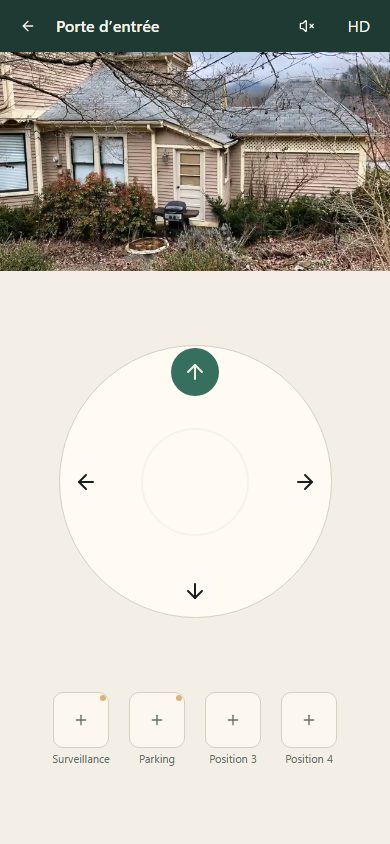
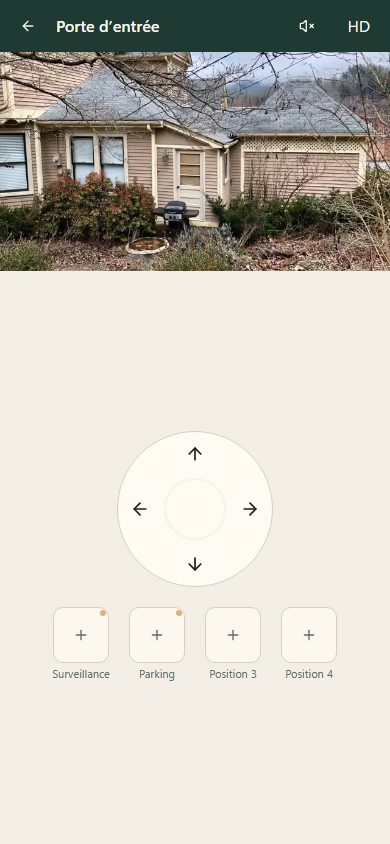
fix(live): give the portrait pad a fixed, comfortable size
Owner feedback on #337: the pad grown to the free height looked out of
proportion. Held upright it now keeps a fixed size, about 40 % of the
width and capped, with the positions right under it, both centred in
the room below the picture. Landscape is unchanged.

diff --git a/src/dashboard/tests/e2e/ui_defauts.e2e.ts b/src/dashboard/tests/e2e/ui_defauts.e2e.ts
@@ -62,7 +62,7 @@ test.describe('LiveView', () => {
     expect(picture!.width).toBe(390)
   })
 
-  test('LiveView_ShouldGiveThePadAndPositionsTheHeightLeft_WhenThePhoneIsHeldUpright', async ({
+  test('LiveView_ShouldKeepThePadAComfortableSizeAboveThePositions_WhenThePhoneIsHeldUpright', async ({
     page,
   }) => {
     await page.setViewportSize({ width: 390, height: 844 })
@@ -76,9 +76,10 @@ test.describe('LiveView', () => {
     const pad = await page.getByTitle('Haut').locator('..').boundingBox()
     const tile = await page.getByTitle('Enregistrer la position actuelle ici').first().boundingBox()
 
-    // The pad uses the room left, and the positions reach down the screen.
-    expect(pad!.width).toBeGreaterThan(200)
-    expect(tile!.y).toBeGreaterThan(600)
+    // Capped, not inflated by the free height; the positions follow right under it.
+    expect(pad!.width).toBeLessThanOrEqual(160)
+    expect(pad!.width).toBeGreaterThanOrEqual(112)
+    expect(tile!.y - (pad!.y + pad!.height)).toBeLessThan(40)
   })
 
   test('LiveView_ShouldFitWithoutScrolling_WhenAShortPhoneIsHeldUpright', async ({ page }) => {
@@ -93,19 +94,6 @@ test.describe('LiveView', () => {
     const screen = page.getByRole('main', { name: 'Porte d’entrée' })
 
     expect(await screen.evaluate((main) => main.scrollHeight - main.clientHeight)).toBe(0)
-  })
-
-  test('LiveView_ShouldKeepThePadPressable_WhenAVeryShortPhoneIsHeldUpright', async ({ page }) => {
-    await page.setViewportSize({ width: 360, height: 520 })
-    const state = createFakeBackendState({
-      cameras: [makeFakeCamera({ ptzSupported: true, verifiedCapabilities: ['ptz'] })],
-    })
-    await installFakeBackend(page, state)
-
-    await page.goto('/cameras/camera-1/direct')
-    const pad = await page.getByTitle('Haut').locator('..').boundingBox()
-
-    expect(pad!.width).toBe(112)
   })
 
   test('LiveView_ShouldGoBackHome_WhenTheBrowserGoesBack', async ({ page }) => {

diff --git a/src/dashboard/src/presentation/live_view/components/ptz_control_panel.tsx b/src/dashboard/src/presentation/live_view/components/ptz_control_panel.tsx
@@ -29,13 +29,13 @@ const PLACE: Record<
     tiles: string
   }
 > = {
-  // The pad grows with the room the bar, the picture and the positions leave, within the width.
+  // A fixed, comfortable pad with the positions right under it, both centred in the room left.
   portrait: {
-    panel: 'flex flex-1 flex-col items-center justify-evenly gap-5',
+    panel: 'flex flex-1 flex-col items-center justify-center gap-5',
     joystick: '',
-    pad: 'size-[max(7rem,min(70vw,18rem,calc(100dvh-56.25vw-17rem)))] bg-card',
-    button: 'size-12',
-    icon: 'size-6',
+    pad: 'size-[max(7rem,min(40vw,10rem))] bg-card',
+    button: 'size-10',
+    icon: 'size-5',
     positions: 'flex w-full flex-col items-center gap-2',
     messages: 'flex flex-col items-center gap-2',
     tiles: 'flex max-w-full gap-3 overflow-x-auto px-1 pb-1',

diff --git a/src/dashboard/src/presentation/live_view/live_view.component.tsx b/src/dashboard/src/presentation/live_view/live_view.component.tsx
@@ -32,7 +32,7 @@ import type { LiveQuality } from '../../domain/entities/camera.entity'
 const SCREEN = 'fixed inset-x-0 top-0 z-40 h-dvh'
 
 const LAYOUT: Record<LiveLayout, { screen: string; picture: string; controls: string }> = {
-  // The controls take the height the picture leaves, rather than an empty band at the bottom.
+  // The controls fill the height the picture leaves, so they can centre in it.
   portrait: {
     screen: 'flex flex-col overflow-y-auto bg-background',
     picture: 'w-full shrink-0',

diff --git a/docs/SPECS.md b/docs/SPECS.md
@@ -334,7 +334,7 @@ Le detail ne contient jamais de secret : ni mot de passe, ni jeton, ni identifia
 - regarder le direct ne doit pas perturber la surveillance de la camera ;
 - la vue en direct est un ecran a part entiere, jamais une fenetre posee sur la page : elle s'ouvre depuis la vignette d'une camera a l'accueil et depuis le pilotage de la page de la camera ; le retour du navigateur la referme et ramene la ou l'on etait, ou a l'accueil quand on l'a atteinte par son adresse ; l'ouvrir depuis les reglages n'est pas quitter les reglages : la question du redemarrage attend qu'on les quitte, alors que des modifications non enregistrees sont signalees comme a tout depart de la page ;
 - une barre ramene en arriere, nomme la camera et porte la qualite et le son ;
-- telephone tenu droit, la barre est au-dessus de la video, jamais posee sur l'image ; la video occupe toute la largeur juste en dessous, puis le pilotage et les positions, quand la camera en a, occupent la hauteur restante, sans bande vide en bas d'ecran ; sur grand ecran, la video prend toute la place disponible, la barre posee sur l'image, le pilotage et les positions a cote ; sans pilotage, cette place ne garde que la ligne qui dit pourquoi, quand il y en a une (§11) ;
+- telephone tenu droit, la barre est au-dessus de la video, jamais posee sur l'image ; la video occupe toute la largeur juste en dessous, puis le pilotage, d'une taille confortable qui ne grandit pas avec la hauteur libre, et les positions juste en dessous, centres dans la place qui reste ; sur grand ecran, la video prend toute la place disponible, la barre posee sur l'image, le pilotage et les positions a cote ; sans pilotage, cette place ne garde que la ligne qui dit pourquoi, quand il y en a une (§11) ;
 - telephone tenu en paysage, la video occupe tout l'ecran : la barre, le pilotage et les positions, enregistrement compris, sont poses dessus, s'effacent apres quelques secondes sans geste, jamais pendant un appui, et reviennent d'un appui sur l'image ; ce qui explique un etat (la raison de l'image de secours, des positions non lues, une calibration a faire, une orientation indisponible) ne s'efface jamais ; le navigateur y masque ses propres barres des le premier geste quand il le permet, avec un bouton pour le lui redemander, et sinon la vue occupe tout ce qu'il laisse visible ;
 - atteinte par son adresse, la vue en direct d'une camera en mode vie privee, hors ligne, a configurer ou qui n'existe plus le dit en une phrase, sans image ni tentative de flux, avec le chemin utile (la page de la camera pour une camera a configurer ou hors ligne) ; la vignette, elle, ne l'ouvre que pour une camera surveillee qui repond (§2.2, §9.2) ;
 - si la video ne peut pas etre lue, parce que le navigateur ne la lit pas ou que le flux n'arrive pas, la vue en direct montre une image rafraichie chaque seconde, dit pourquoi en une phrase et propose de reessayer quand la cause peut passer ; en mode vie privee, ou pour une camera qui n'existe plus, elle le dit sans image ; les vignettes restent des images rafraichies ;

diff --git a/docs/DESIGN SYSTEM.md b/docs/DESIGN SYSTEM.md
@@ -188,8 +188,8 @@ still image or a recording. Where each control sits in a given screen is its SPE
   nor has controls beside it, the bar sits above it and never covers it; otherwise it lies over the
   picture, dimmed so it reads over any picture.
 - **The other controls sit beside or below the picture when there is room**, on the page surface,
-  and over it only when the picture fills the screen. Below the picture they take the remaining
-  height and grow with it, leaving no empty band.
+  and over it only when the picture fills the screen. Below the picture they keep a capped size
+  that does not grow with the free height, and stand centred in the room left.
 - **Controls over a filling picture fade** after a few seconds without a gesture and come back on a
   tap; never while a finger holds one. Controls beside or below the picture never fade. A line that
   explains a state (a failure, a missing step) is not a control: it never fades.
